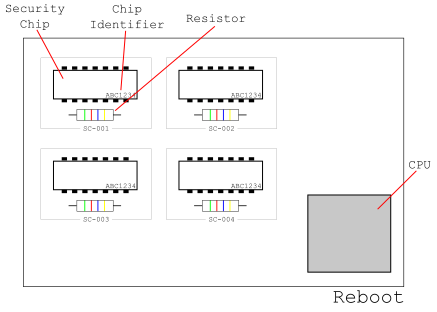
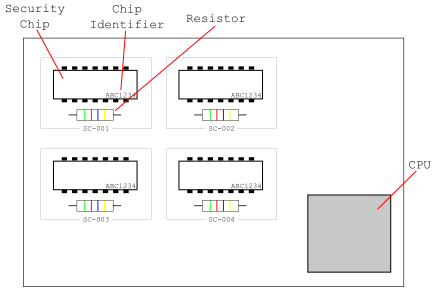
Add hardware diagram to manual

diff --git a/docs/manual.html b/docs/manual.html
@@ -239,10 +239,12 @@ must remove the chip, its pull-down resistor, or both, based on the information
 in the below tables. Removing a chip or resistor is achieved by simply
 left-clicking on it.</p>
 
-<p>Once you have the correct hardware configuration, click the "Reboot" button
-to restart the computer. Booting the system with an incorrect hardware
-configuration may affect the system clock, which may reduce the amount of time
-you have before you are logged out.</p>
+<img src='hardware.png' alt='Hardware diagram'>
+
+<p>Once you have the correct hardware configuration, click the power button
+to the bottom left of the screen to restart the computer. Booting the system
+with an incorrect hardware configuration may affect the system clock, which may
+reduce the amount of time you have before you are logged out.</p>
 
 <p>Table 1:
 This table shows the values of the different resistors, based on the coloured
